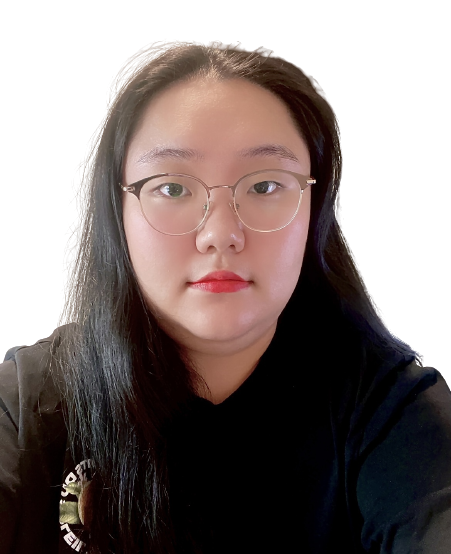
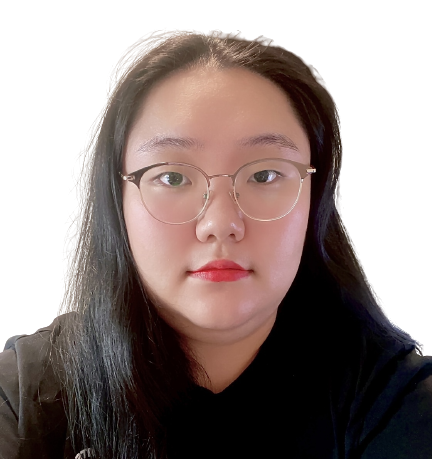
CSS - Home

diff --git a/index.html b/index.html
@@ -57,14 +57,22 @@
     <main>
       <!-- Home -->
       <section id="home">
-        <img src="./images/profile.png" alt="Seonhye's profile" />
+        <img
+          class="home__avatar"
+          src="./images/profile.png"
+          alt="Seonhye's profile"
+        />
         <div>
-          <h2 class="home">
+          <h2 class="home__title">
             Hello<br />
-            I&#39;m Front-End Developer, Seonhye
+            I&#39;m
+            <strong class="home__title--strong">Front-End Developer</strong>,
+            Seonhye
           </h2>
-          <p>A Front-end Developer currently residing in Edmonton, Canada</p>
-          <a href="#contact">Contact Me</a>
+          <p class="home__description">
+            A Front-end Developer currently residing in Edmonton, Canada
+          </p>
+          <a class="home__contact" href="#contact">Contact Me</a>
         </div>
       </section>
       <!-- About -->

diff --git a/css/style.css b/css/style.css
@@ -96,3 +96,49 @@ button:focus {
   border: 1px solid var(--color-accent);
   border-radius: 4px;
 }
+
+/* Home */
+#home {
+  background-color: var(--color-primary);
+  color: var(--color-text);
+  padding: 5rem 1rem;
+  padding-top: 7rem;
+  text-align: center;
+}
+
+.home__avatar {
+  width: 250px;
+  height: 250px;
+  object-fit: cover;
+  border-radius: 100%;
+  border: 3px solid var(--color-accent);
+}
+
+.home__title {
+  font-size: 3rem;
+  margin-bottom: 1rem;
+}
+
+.home__title--strong {
+  color: var(--color-accent);
+}
+
+.home__description {
+  font-size: 1.3rem;
+}
+
+.home__contact {
+  display: inline-block;
+  background-color: var(--color-accent);
+  color: var(--color-black);
+  margin: 2rem;
+  padding: 0.5rem 1rem;
+  font-weight: bold;
+  border-radius: 4px;
+}
+
+.home__contact:hover {
+  background-color: transparent;
+  outline: 2px solid var(--color-accent);
+  color: 2px solid var(--color-accent);
+}
